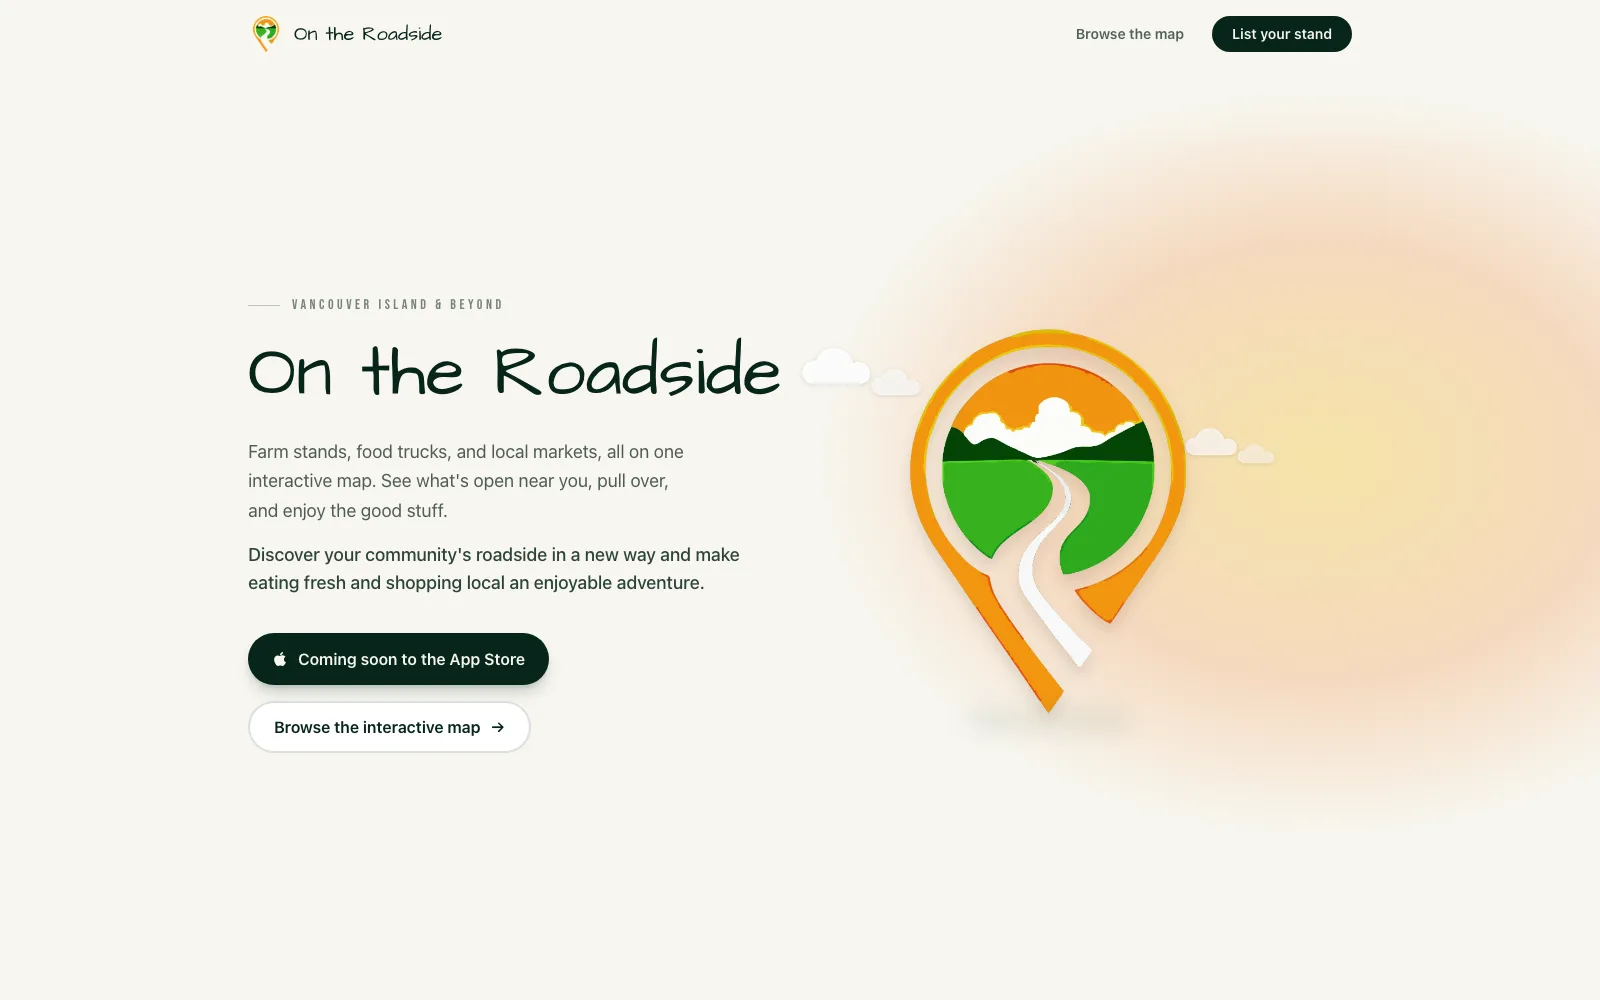
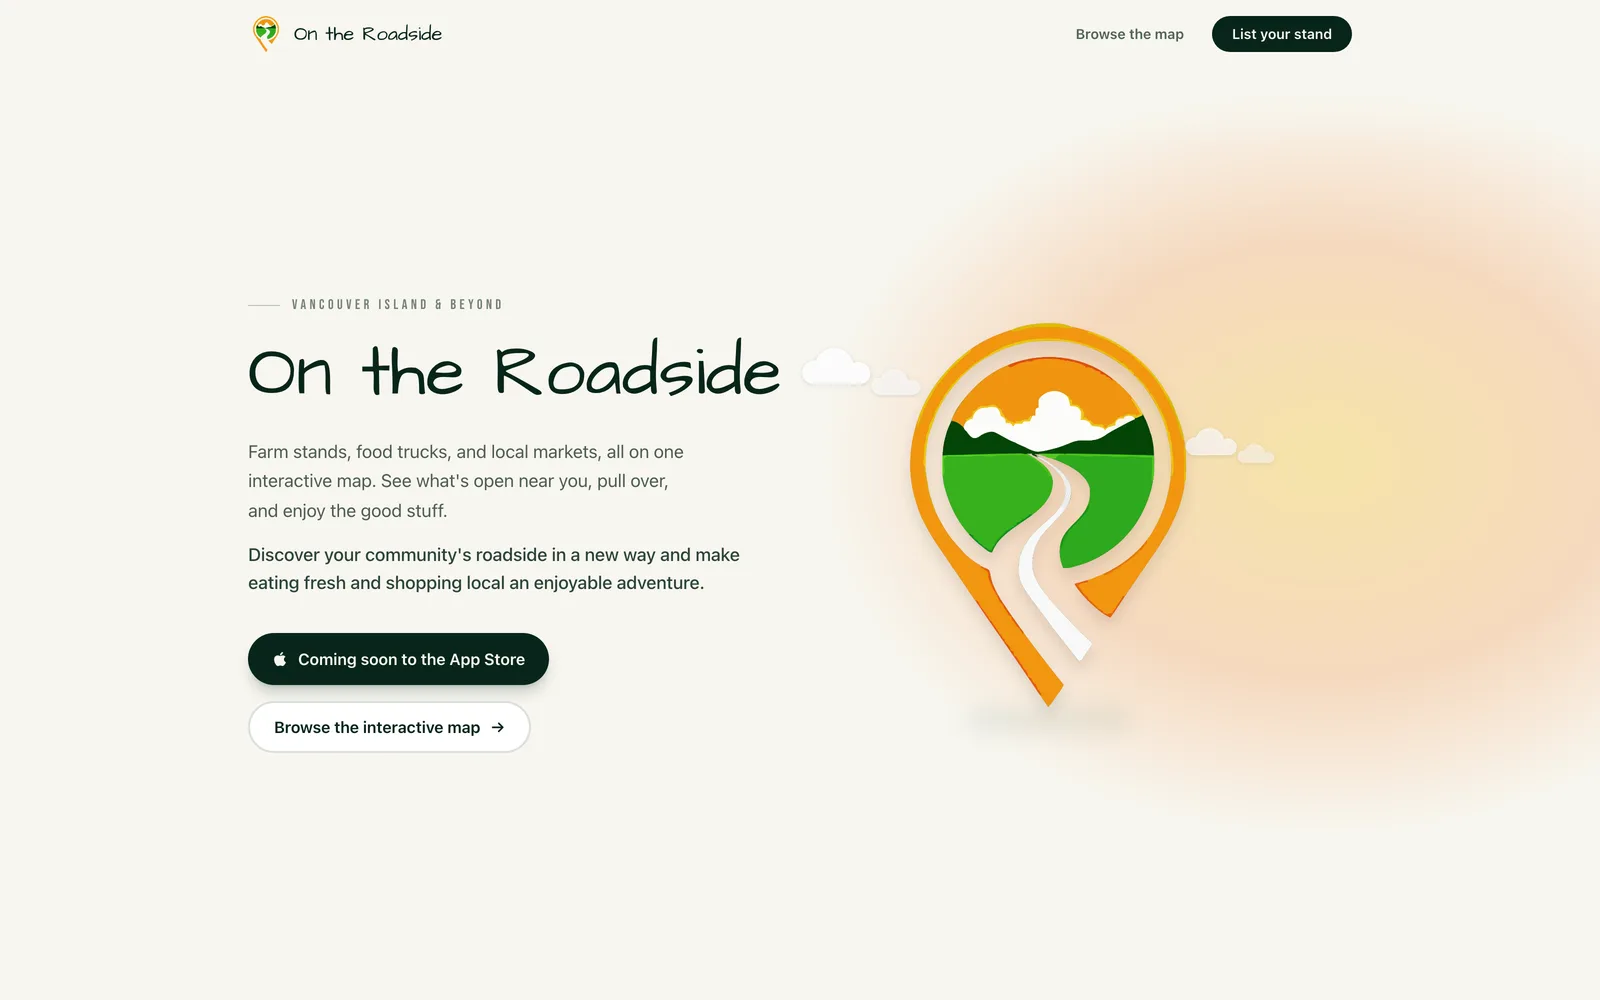
Add ontheroadside.ca to the client roster: twelve live client sites
OBdesign built that landing page, it is live on the client's own domain,
and it came inside a paid engagement, so it belongs in the roster with
the other eleven. It sits second, behind Grain Construction, which keeps
the band's default laptop off the brand the hero and the work card
already show.

Its write-up is on this site rather than obwebdesign.ca, so ClientSite
grows a caseStudyPath: the band routes that row client-side and the
/obdesign card drops "on obwebdesign.ca" from the label. Every other row
still leaves for obwebdesign.ca.

The count in copy moves 11 to 12 in all four places, and a unit test now
reads the number back out of the home page, /obdesign and the resume
data and fails if it disagrees with the roster. Proved by flipping one
back to 11.

sync:client-shots captures this one from the live site: obwebdesign.ca
has no page for it, so its repo has no screenshot, and the old script
would have failed the whole run on the missing file. Motion is reduced
for the capture so the hero's entrance lands at its resting state.

Changed region(s): [[0.5625, 0.31, 0.75, 0.713]]

diff --git a/src/app/obdesign/page.tsx b/src/app/obdesign/page.tsx
@@ -10,7 +10,7 @@ import { PageHeader } from "@/components/page-header";
 export const metadata: Metadata = {
   title: "OBdesign",
   description:
-    "More than 25 websites deployed, 11 of them live client sites for BC businesses, every one custom-coded and client-editable. Owen Brown's web development business.",
+    "More than 25 websites deployed, 12 of them live client sites for BC businesses, every one custom-coded and client-editable. Owen Brown's web development business.",
 };
 
 export default function ObdesignPage() {
@@ -26,7 +26,7 @@ export default function ObdesignPage() {
         }
         meta={[
           { label: "Role", value: "Founder & web developer" },
-          { label: "Sites shipped", value: "25+ deployed · 11 live client sites" },
+          { label: "Sites shipped", value: "25+ deployed · 12 live client sites" },
           {
             label: "Stack",
             value: "Next.js · Astro · TypeScript · Keystatic",
@@ -54,7 +54,7 @@ export default function ObdesignPage() {
             edits their own content without touching code.
           </p>
           <p>
-            The numbers I actually track: more than 25 sites deployed, 11 of
+            The numbers I actually track: more than 25 sites deployed, 12 of
             them live client sites, $10,000+ collected, roughly
             7% of first cold emails converting to paying projects (found by{" "}
             <Link href="/work/leadgen" className="link-underline text-fg">
@@ -68,7 +68,13 @@ export default function ObdesignPage() {
         </div>
       </PageHeader>
 
-      <div className="mt-16 grid gap-x-8 gap-y-14 sm:grid-cols-2">
+      {/* Named so the roster can be asserted apart from the Explore more
+          tiles at the foot of the page, which link to the same case
+          studies. */}
+      <div
+        id="client-sites"
+        className="mt-16 grid gap-x-8 gap-y-14 sm:grid-cols-2"
+      >
         {clientSites.map((site, i) => (
           <article key={site.slug}>
             {/* Same stage as the work cards: the site dissolves in behind
@@ -108,13 +114,22 @@ export default function ObdesignPage() {
             </p>
             {!site.noCaseStudy && (
               <p className="mt-3 text-sm">
-                <a
-                  href={caseStudyUrl(site)}
-                  rel="noopener"
-                  className="link-underline text-fg"
-                >
-                  Read the case study on obwebdesign.ca ↗
-                </a>
+                {site.caseStudyPath ? (
+                  <Link
+                    href={site.caseStudyPath}
+                    className="link-underline text-fg"
+                  >
+                    Read the case study →
+                  </Link>
+                ) : (
+                  <a
+                    href={caseStudyUrl(site)}
+                    rel="noopener"
+                    className="link-underline text-fg"
+                  >
+                    Read the case study on obwebdesign.ca ↗
+                  </a>
+                )}
               </p>
             )}
           </article>

diff --git a/tests/unit/sites.test.ts b/tests/unit/sites.test.ts
@@ -1,0 +1,55 @@
+import { readFileSync } from "node:fs";
+import { describe, expect, it } from "vitest";
+import { caseStudyUrl, clientSites } from "@/lib/sites";
+
+describe("the client roster", () => {
+  it("has unique slugs and clean URLs", () => {
+    const slugs = clientSites.map((s) => s.slug);
+    expect(new Set(slugs).size).toBe(slugs.length);
+    for (const site of clientSites) {
+      // host() in the showcase strips the protocol, www and a trailing
+      // slash; anything else here would print a bare path into the
+      // laptop's URL bar.
+      expect(site.url, site.slug).toMatch(/^https:\/\/[^/]+$/);
+      expect(site.blurb.length, site.slug).toBeGreaterThan(40);
+    }
+  });
+
+  it("sends each site to its own case study", () => {
+    const grain = clientSites.find((s) => s.slug === "grain-construction")!;
+    expect(caseStudyUrl(grain)).toBe(
+      "https://www.obwebdesign.ca/work/grain-construction",
+    );
+    // On the Roadside's write-up is on this site: the landing page is one
+    // deliverable of a project whose case study lives here, and
+    // obwebdesign.ca has no page for it.
+    const roadside = clientSites.find((s) => s.slug === "on-the-roadside")!;
+    expect(caseStudyUrl(roadside)).toBe("/work/on-the-roadside");
+  });
+});
+
+/**
+ * The count is claimed in four places in copy and the roster is the only
+ * thing a visitor can actually count. They contradicted each other the
+ * moment On the Roadside's landing page joined the list, so the number
+ * is asserted against the data rather than proof-read.
+ */
+describe("the live client site count in copy", () => {
+  const files = [
+    "src/app/page.tsx",
+    "src/app/obdesign/page.tsx",
+    "src/lib/resume-data.ts",
+  ];
+
+  it.each(files)("%s states the roster's own count", (file) => {
+    const text = readFileSync(file, "utf8").replace(/\s+/g, " ");
+    const claims = [
+      ...text.matchAll(/(\d+)(?: of them)? live client sites/g),
+      ...text.matchAll(/"(\d+)", "live client sites"/g),
+    ].map((m) => Number(m[1]));
+    expect(claims.length, `no count found in ${file}`).toBeGreaterThan(0);
+    for (const claim of claims) {
+      expect(claim, `count in ${file}`).toBe(clientSites.length);
+    }
+  });
+});

diff --git a/tests/e2e/smoke.spec.ts b/tests/e2e/smoke.spec.ts
@@ -63,20 +63,31 @@ test("OBdesign page links through to a case study", async ({ page }) => {
   await expect(page.getByRole("heading", { level: 1 })).toContainText(/grain/i);
 });
 
-test("every client site links to its case study on obwebdesign.ca", async ({
-  page,
-}) => {
-  const { clientSites } = await import("../../src/lib/sites");
+test("every client site links to its own case study", async ({ page }) => {
+  const { caseStudyUrl, clientSites } = await import("../../src/lib/sites");
   await page.goto("/obdesign");
+  // The roster only: Explore more at the foot of the page links to the
+  // same case studies.
+  const roster = page.locator("#client-sites");
   const withStudy = clientSites.filter((s) => !s.noCaseStudy);
-  const links = page.getByRole("link", { name: /read the case study/i });
+  const links = roster.getByRole("link", { name: /read the case study/i });
   await expect(links).toHaveCount(withStudy.length);
   for (const site of withStudy) {
     await expect(
-      page.locator(`a[href="https://www.obwebdesign.ca/work/${site.slug}"]`),
+      roster.locator(`a[href="${caseStudyUrl(site)}"]`),
       `case study link for ${site.slug}`,
     ).toHaveCount(1);
   }
+  // Ten of the eleven leave for obwebdesign.ca; On the Roadside's write-up
+  // is here, and pointing it at a obwebdesign.ca page that doesn't exist
+  // is the mistake this half guards.
+  await expect(
+    roster.locator('a[href="/work/on-the-roadside"]'),
+    "On the Roadside's case study link stays on this site",
+  ).toHaveCount(1);
+  await expect(
+    roster.locator('a[href="https://www.obwebdesign.ca/work/on-the-roadside"]'),
+  ).toHaveCount(0);
 });
 
 test("retired client case studies redirect to obwebdesign.ca", async ({

diff --git a/src/lib/sites.ts b/src/lib/sites.ts
@@ -12,11 +12,18 @@ export type ClientSite = {
   url: string;
   /** Beyond Fitness has no write-up on obwebdesign.ca (ongoing care, not a build). */
   noCaseStudy?: true;
+  /**
+   * A write-up that lives on this site instead of obwebdesign.ca. Only On
+   * the Roadside: the landing page is one deliverable of a project whose
+   * case study is here, so the row points at that rather than at a
+   * obwebdesign.ca page that doesn't exist.
+   */
+  caseStudyPath?: string;
 };
 
-/** Each site's write-up lives on obwebdesign.ca, not here. */
+/** Each site's write-up lives on obwebdesign.ca unless it says otherwise. */
 export const caseStudyUrl = (site: ClientSite) =>
-  `https://www.obwebdesign.ca/work/${site.slug}`;
+  site.caseStudyPath ?? `https://www.obwebdesign.ca/work/${site.slug}`;
 
 export const clientSites: ClientSite[] = [
   {
@@ -25,6 +32,17 @@ export const clientSites: ClientSite[] = [
     blurb:
       "First-ever website for a Salt Spring builder. 291 photos curated into thirteen project galleries.",
     url: "https://grainconstruction.ca",
+  },
+  {
+    // Billed as a $0 line inside the $1,900 app project, and it is still a
+    // live client site on the client's own domain: the front door the
+    // printed cards and bumper stickers point at.
+    slug: "on-the-roadside",
+    name: "On the Roadside",
+    blurb:
+      "The launch site for an iOS app that maps Vancouver Island's farm stands and food trucks, built to turn a printed bumper sticker into a vendor signup.",
+    url: "https://ontheroadside.ca",
+    caseStudyPath: "/work/on-the-roadside",
   },
   {
     slug: "figs-and-honey",

diff --git a/src/components/obdesign-showcase.tsx b/src/components/obdesign-showcase.tsx
@@ -134,16 +134,27 @@ export function ObdesignShowcase() {
             Visit {host(active.url)}
             <ArrowUpRightIcon />
           </a>
-          {!active.noCaseStudy && (
-            <a
-              href={caseStudyUrl(active)}
-              rel="noopener"
-              className="link-draw inline-flex items-center gap-1.5 text-sm text-white/75"
-            >
-              Case study
-              <ArrowUpRightIcon />
-            </a>
-          )}
+          {!active.noCaseStudy &&
+            // On the Roadside's write-up is on this site, so it routes
+            // client-side; every other row leaves for obwebdesign.ca.
+            (active.caseStudyPath ? (
+              <Link
+                href={active.caseStudyPath}
+                className="link-draw inline-flex items-center gap-1.5 text-sm text-white/75"
+              >
+                Case study
+                <ArrowUpRightIcon />
+              </Link>
+            ) : (
+              <a
+                href={caseStudyUrl(active)}
+                rel="noopener"
+                className="link-draw inline-flex items-center gap-1.5 text-sm text-white/75"
+              >
+                Case study
+                <ArrowUpRightIcon />
+              </a>
+            ))}
         </div>
       </div>
     </div>

diff --git a/src/lib/resume-data.ts b/src/lib/resume-data.ts
@@ -33,7 +33,7 @@ export const experience: ResumeEntry[] = [
     location: "Salt Spring Island & Victoria, BC",
     link: "https://www.obwebdesign.ca",
     bullets: [
-      "Designed, built and deployed more than 25 websites on Vercel, 11 of them live client sites for BC businesses (construction, bakery, spa, health clinics, accommodation), owning everything from client discovery to post-launch support",
+      "Designed, built and deployed more than 25 websites on Vercel, 12 of them live client sites for BC businesses (construction, bakery, spa, health clinics, accommodation), owning everything from client discovery to post-launch support",
       "Builds are custom-coded Next.js and Astro apps in TypeScript with Tailwind, wired to a git-based CMS (Keystatic) so every client edits their own content; deployed on Vercel with CI from GitHub",
       "Handle the whole operations surface: domains and DNS cutovers with zero email downtime, performance budgets (Core Web Vitals verified before handoff), SEO with structured data, analytics, and maintenance",
       "Wrote the Python pipeline that finds the clients: scraping, site analysis, email discovery, and drafting, with roughly 7% of cold emails converting to paying projects",

diff --git a/tests/e2e/features.spec.ts b/tests/e2e/features.spec.ts
@@ -638,6 +638,16 @@ test("the OBdesign band swaps sites by name", async ({ page }) => {
   await expect(band.locator(".laptop-frame__url")).toContainText(
     "beyondfitness.biz",
   );
+  // On the Roadside is the one row whose write-up is on this site, so its
+  // case-study link stays internal instead of leaving for a obwebdesign.ca
+  // page that doesn't exist.
+  await band.getByRole("tab", { name: "On the Roadside" }).click();
+  await expect(band.locator(".laptop-frame__url")).toContainText(
+    "ontheroadside.ca",
+  );
+  await expect(
+    band.getByRole("link", { name: /case study/i }),
+  ).toHaveAttribute("href", "/work/on-the-roadside");
 });
 
 test("Explore more tiles show the same pictures as the home cards", async ({

diff --git a/src/app/page.tsx b/src/app/page.tsx
@@ -286,7 +286,7 @@ I’m a{" "}
             <dl className="flex flex-wrap items-end gap-x-10 gap-y-4">
               {[
                 ["25+", "sites deployed"],
-                ["11", "live client sites"],
+                ["12", "live client sites"],
                 ["$10k+", "collected"],
               ].map(([value, label]) => (
                 <div key={label}>
